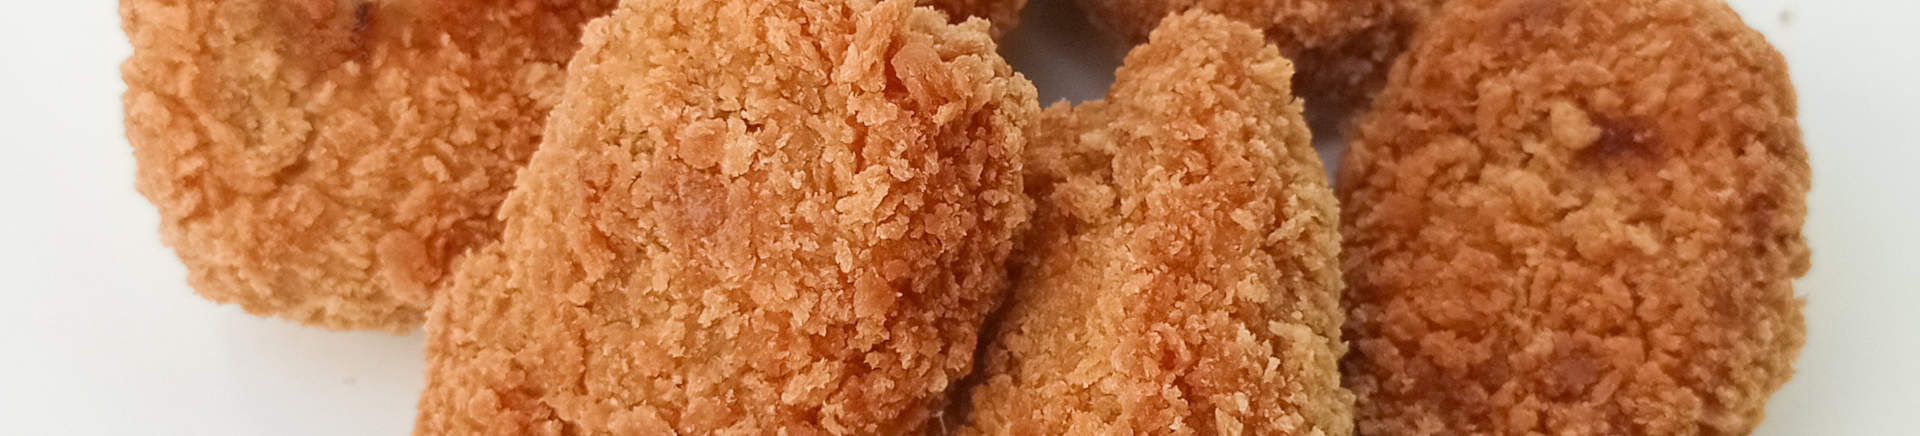
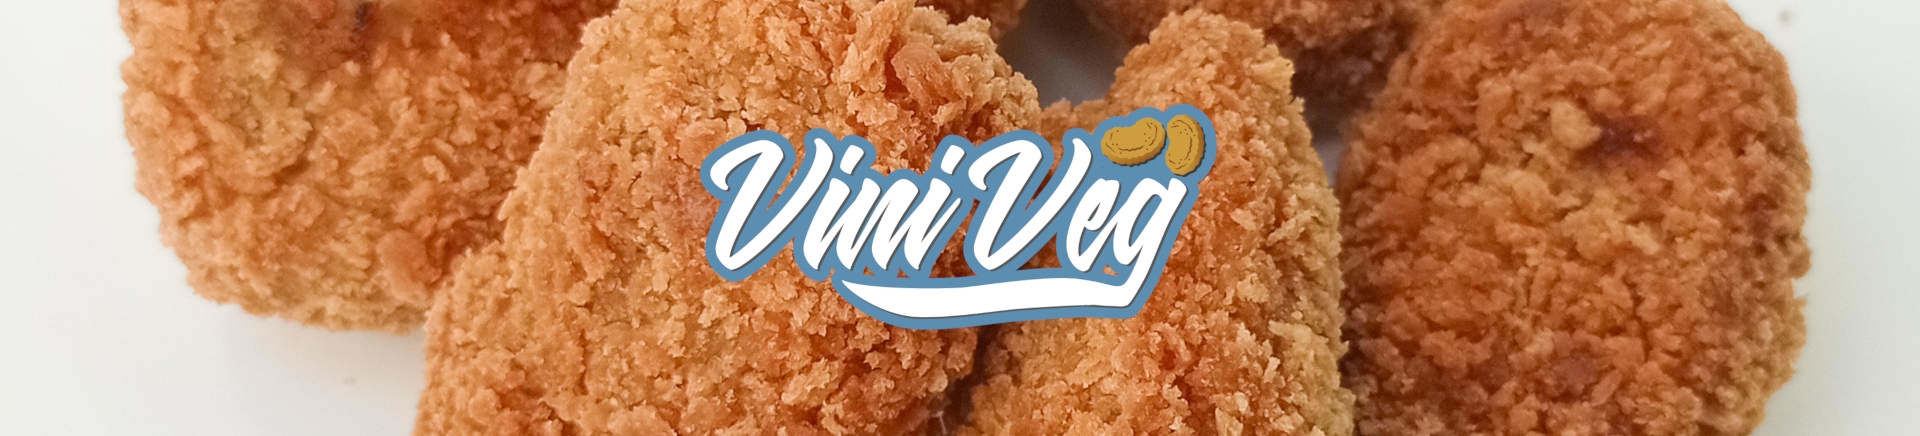
Posição das imagens e corpo diferente

Changed region(s): [[0.3438, 0.2385, 0.6562, 0.7752]]

diff --git a/index.html b/index.html
@@ -8,12 +8,9 @@
         <link rel="stylesheet" href="styleIndex.css">
     </head>
    <body>
-        <div class="container">
-            <img src="imagensIndex/viniveg.png" alt="Não Carregou Corretamente"/>
-        </div>
         <picture>
-            <source media="(max-width: 800px)" srcset="ImagensIndex/nugcrocp.jpg">
-            <source media="(max-width: 1220px)" srcset="ImagensIndex/nugcrocm.jpg">
+            <source media="(max-width: 750px)" srcset="ImagensIndex/nugcrocp.jpg">
+            <source media="(max-width: 1020px)" srcset="ImagensIndex/nugcrocm.jpg">
             <img src="ImagensIndex/nugcrocg.jpg" alt="ImagemNuggets">
         </picture>
         <div class="centerText">
@@ -26,15 +23,17 @@
                 o <b>Amor</b> e o <b>Carinho</b> em cada etapa do preparo!!!
             </p>
         </div>
-        <div class="centerImg">
-            <div class="zoomCroquete">
-                <a href="Mandioquinha/mand.html" target="_self"><img  src="imagensIndex/C.jpg" alt="Croquete"/></a>
+        <div>
+                <a href="Mandioquinha/mand.html" target="_self">
+                <img class="posicionando" src="imagensIndex/C.jpg" alt="Croquete"/></a>
+                <p>Lorem ipsum dolor sit amet consectetur adipisicing elit. Iure voluptate libero impedit saepe aspernatur eveniet beatae. Consequuntur necessitatibus earum omnis autem doloremque illo exercitationem provident quidem officia sint. Tempore, at.</p>
+            <div>
+                <img  class="posicionando" src="imagensIndex/L.jpg" alt="Lentilha"/>
+                <p>Lorem ipsum dolor sit amet consectetur adipisicing elit. Iure voluptate libero impedit saepe aspernatur eveniet beatae. Consequuntur necessitatibus earum omnis autem doloremque illo exercitationem provident quidem officia sint. Tempore, at.</p>
             </div>
-            <div class="zoomLentilha">
-                <img src="imagensIndex/L.jpg" alt="Lentilha"/>
-            </div>
-            <div class="zoomMandioquinha">
-                <img src="imagensIndex/M.jpg" alt="Mandioquinha"/>
+            <div>
+                <img  class="posicionando" src="imagensIndex/M.jpg" alt="Mandioquinha"/>
+                <p>Lorem ipsum dolor sit amet consectetur adipisicing elit. Iure voluptate libero impedit saepe aspernatur eveniet beatae. Consequuntur necessitatibus earum omnis autem doloremque illo exercitationem provident quidem officia sint. Tempore, at.</p>
             </div>
         </div>
         <h2><a href="Mandioquinha/mand.html" target="_self">Mandioquinha</a></h2>

diff --git a/styleIndex.css b/styleIndex.css
@@ -6,88 +6,51 @@ h1{
     font-weight: bold;
     font-size: 35px;
     font-family:  Cambria, Cochin, Georgia, Times, 'Times New Roman', serif;
-    color: #09619c
+    color: #489fd1
 }
 h2{
     font-style: italic;
     font-weight: bold;
     font-size: 30px;
     font-family:  Cambria, Cochin, Georgia, Times, 'Times New Roman', serif;
-    color: #09619c
+    color: #489fd1
 }
 h3{
     font-style: italic;
     font-size: 15px;
-    color: #09619c;
+    color: #489fd1;
 }
-.container{    
-    text-align: center;
-    justify-content: center;
-}
-.centerImg{
-    display: flex;
-    justify-content: center;
-    position: relative;
-    top: 20px;
-}
+
 .centerText{
-    display: flex;
     text-align: center;
     justify-content: center;
     line-height: 0.9;
 }
 .textoCentral{
-    text-indent: 20px;
+    
     font-style: italic;
     font-size: 20px;
     justify-content: center;
     text-align: center;
     line-height: 1;
     font-family:  Cambria, Cochin, Georgia, Times, 'Times New Roman', serif;
-    color: #09619c
+    color: #489fd1;
+    background-color: #ffa70536;
+    padding: 15px;
+    border-radius: 15px;
+    display: inline-block;
     
 }
-.container img {
-    max-width:500px;
-    max-height:550px;
+div{
+    text-align: center;
 }
+p{
+}
+.posicionando{
+    border-radius: 20px;
+    margin: auto;
+    border: 2px solid #489fd1;
+    width: 560px;
+    height: 460px;
 
-/*Efeito para fazer zoom na imagem C */
-.zoomCroquete {
-    width: 560px;
-    height: 460px;
-    overflow: hidden;
-}  
-.zoomCroquete img {
-    width: 100%;
-    transition: 1.1s all ease-in-out;
-}
-.zoomCroquete:hover img {
-    transform: scale(1.1);
-}
-/*Efeito para fazer zoom na imagem L */
-.zoomLentilha {
-    width: 560px;
-    height: 460px;
-    overflow: hidden;
-}  
-.zoomLentilha img {
-    width: 100%;
-    transition: 1.1s all ease-in-out;
-}
-.zoomLentilha:hover img {
-    transform: scale(1.1);
-}
-/*Efeito para fazer zoom na imagem M */
-.zoomMandioquinha {
-    width: 560px;
-    height: 460px;
-    overflow: hidden;
-}  
-.zoomMandioquinha img {
-    width: 100%;
-    transition: 1.1s all ease-in-out;
-}
-.zoomMandioquinha:hover img {
-    transform: scale(1.1);
 }
